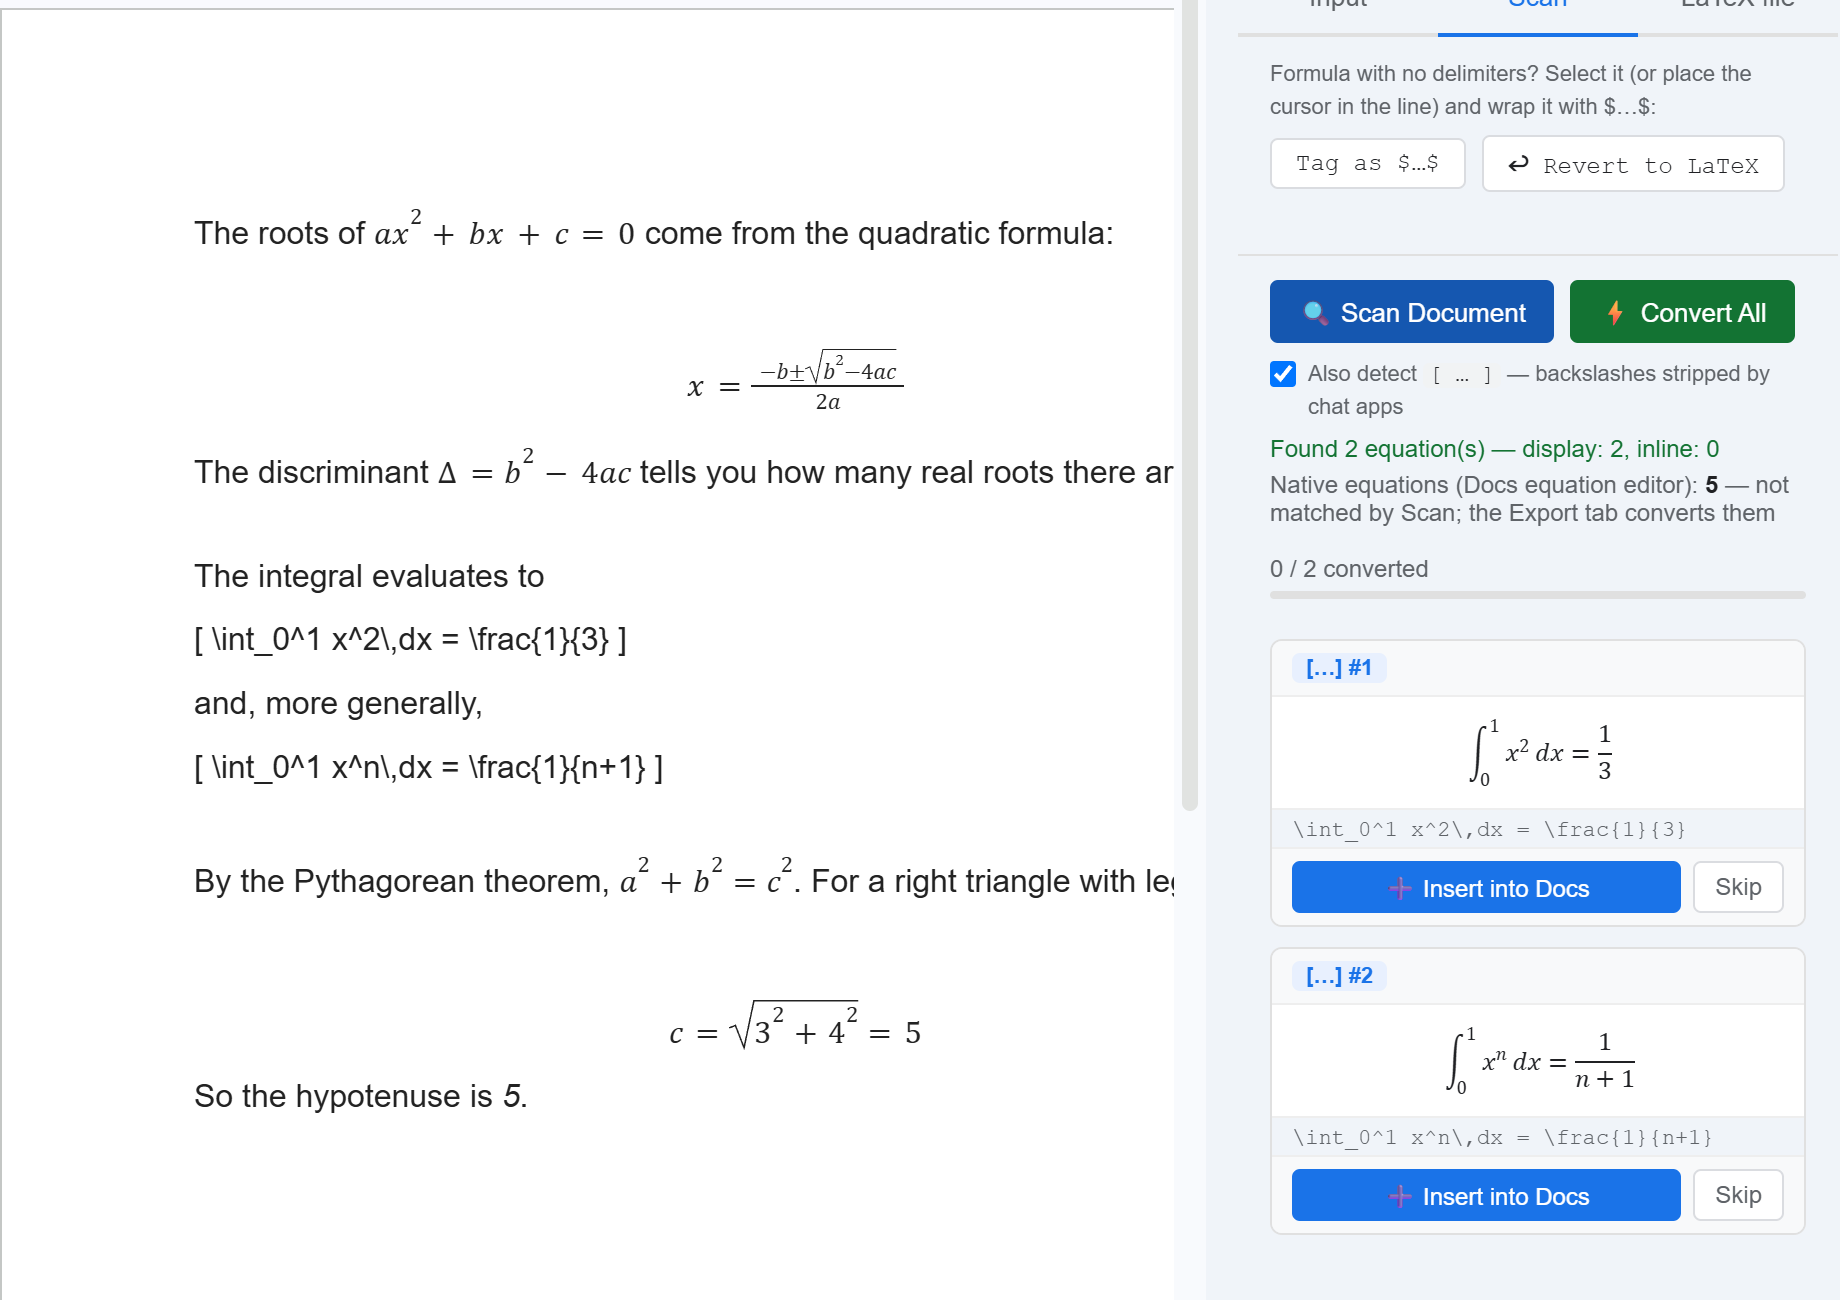
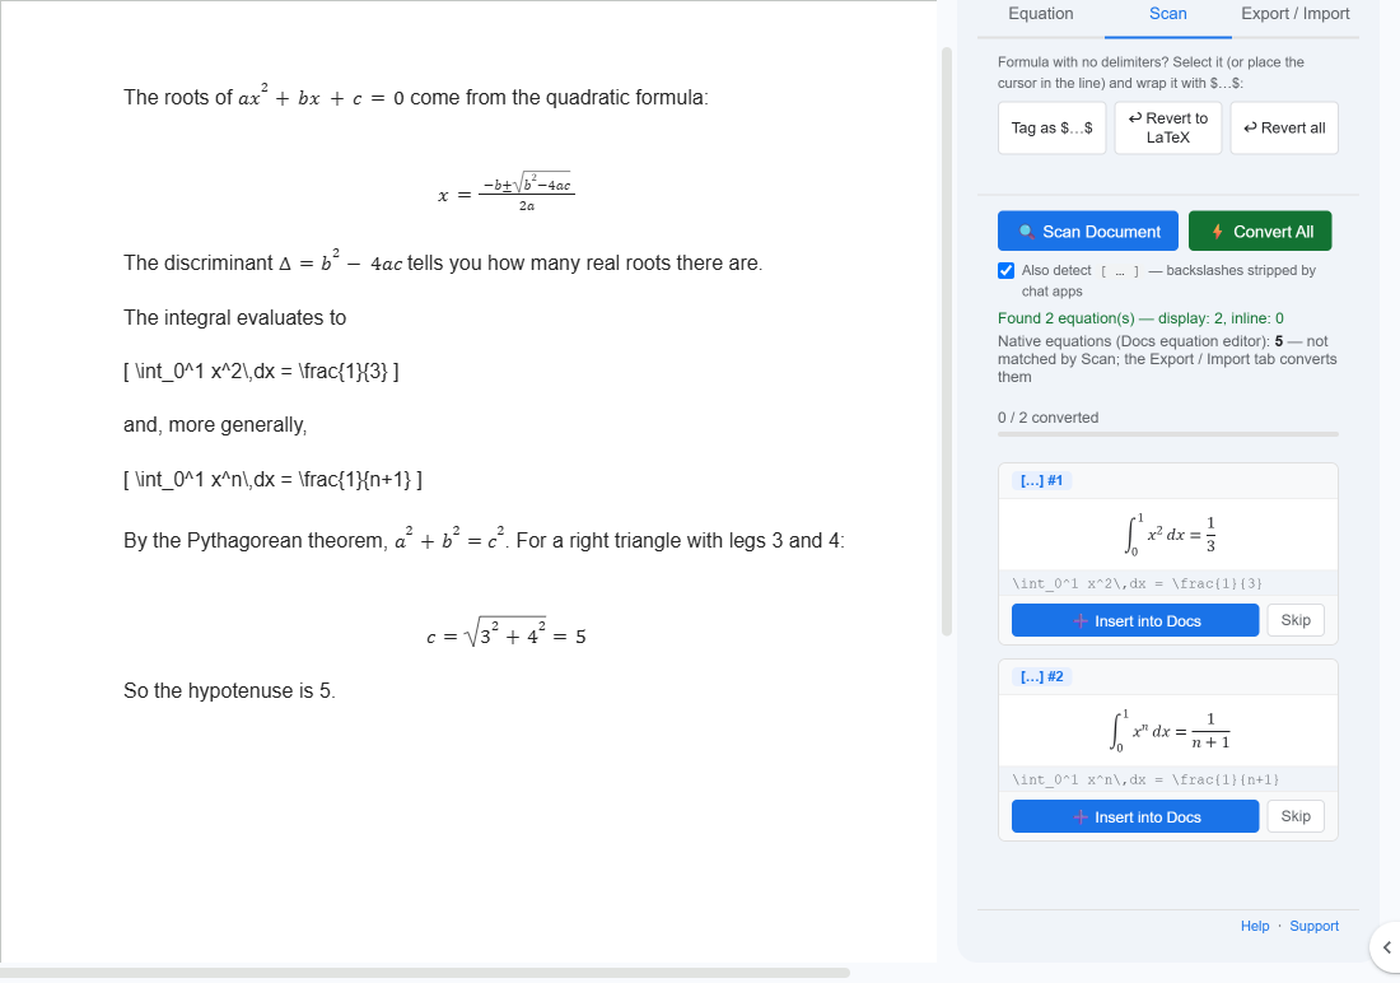
img(r166): 11-13 Overleaf download + Import Append anyway shots; 11-09/11-12 Scan shots re-taken with v16 tab row
Claude-Session: https://claude.ai/code/session_01WtnKZasBhqLtdkMYmNon2T

diff --git a/_posts/2026-11-13-overleaf-to-google-docs.md b/_posts/2026-11-13-overleaf-to-google-docs.md
@@ -21,7 +21,7 @@ A single short `.tex` file is covered in [You Received a .tex File](/blog/en/pos
 2. Choose **File** in the upper left of the editor, then **Download as source (.zip)**. From the project list, the **Download .zip file** button does the same.
 3. Unzip the file on your computer.
 
-<!-- TODO image (web): Overleaf editor with the File menu open and "Download as source (.zip)" highlighted. File: /assets/img/posts/2026-11-13/01-overleaf-download-source.png -->
+![The Overleaf editor with the File menu open: Download is expanded and Download as source (.zip) is highlighted, above Download as PDF and the Word, Markdown and HTML exports](/assets/img/posts/2026-11-13/01-overleaf-download-source.png){: width="720" }
 
 A typical thesis or paper project unzips into something like this:
 
@@ -47,7 +47,7 @@ Import reads one `.tex` file at a time and does not follow `\input` or `\include
 5. Pick the next file, `chapters/introduction.tex`. Import writes at the end of the tab shown after **Import into:**, and since the tab now has content, tick **Append anyway**, then press **Import**.
 6. Repeat for each chapter in the order `main.tex` lists them.
 
-<!-- TODO image (web): the Import summary for a chapter file, with Import into: and the Append anyway checkbox. File: /assets/img/posts/2026-11-13/02-import-append.png -->
+![A document that already holds the title from main.tex, and the Export / Import tab after picking chapters/introduction.tex: 10 blocks with 2 headings and 2 list items, 7 equations written as LaTeX text, Import into: Tab 1, a note that Tab 1 already has content and Import writes at its end, and Append anyway ticked above the Import button](/assets/img/posts/2026-11-13/02-import-append.png){: width="720" }
 
 `\section` and `\subsection` become Docs headings, lists become Docs lists and `tabular` becomes a Docs table. Equations arrive as LaTeX text between delimiters, so you can still edit them as source. The sidebar shows how far it has got as a percentage; a file of about 1,000 blocks took about a minute in our tests. If Google Docs™ stops part-way, **Continue import** carries on from the block where it stopped.
 
